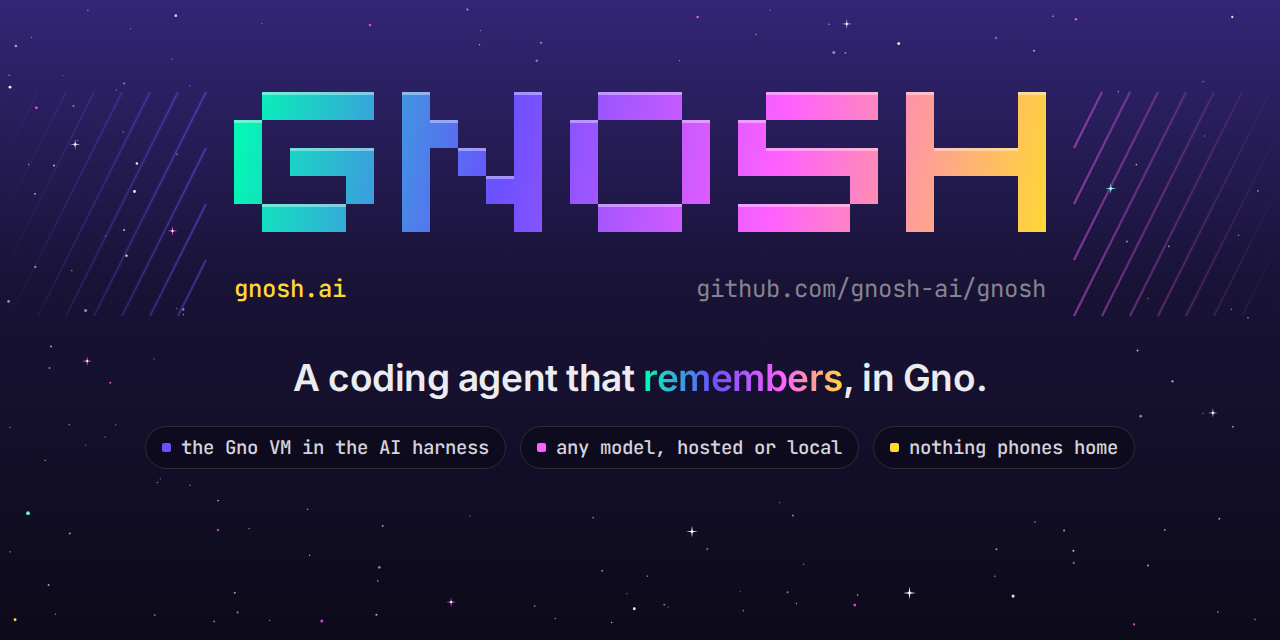
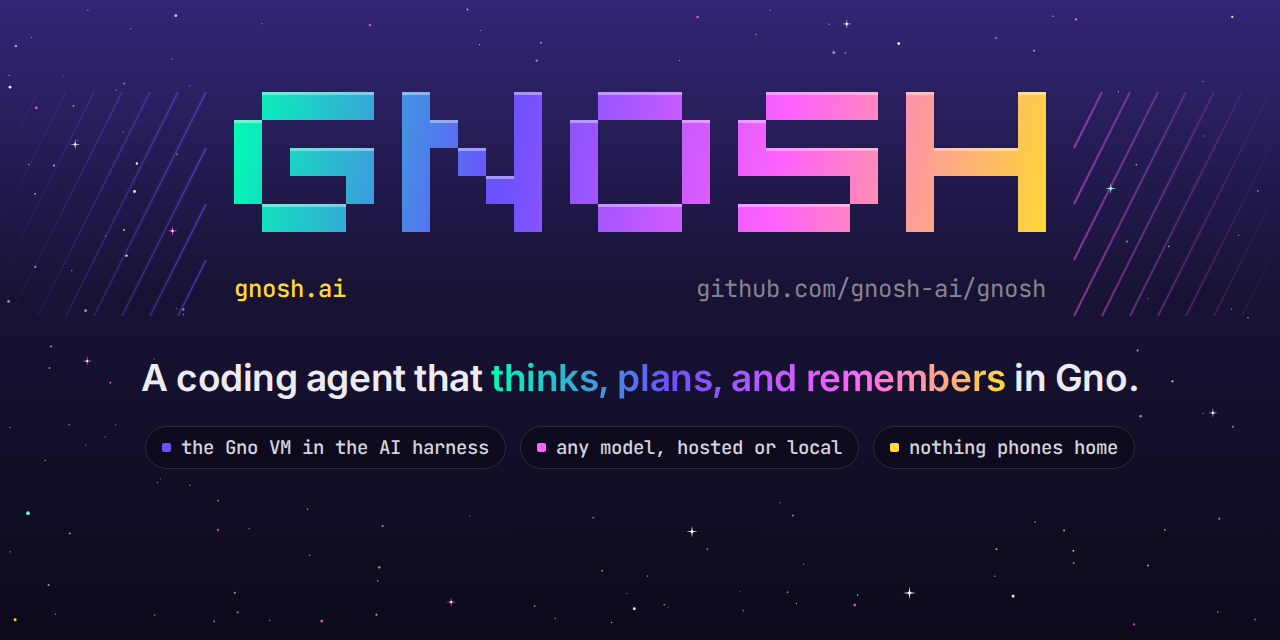
brand: a coding agent that thinks, plans, and remembers in Gno
Jae, 2026-10-30: "a coding agent that remembers, in Gno" ... --> that
thinks, plans, and remembers in Gno. The README's banner and tagline and
the social card say it now. On the banner the longer line has a row of
its own under gnosh.ai, at the same size, so it stays legible where
GitHub shows the banner smaller.

Changed region(s): [[0.0938, 0.5625, 0.9062, 0.625]]

diff --git a/docs/brand/og.html b/docs/brand/og.html
@@ -27,7 +27,7 @@ html,body{width:1280px;height:640px;overflow:hidden;background:#07060D}
 <path d="M262 92h112v28h-112zM402 92h28v28h-28zM514 92h28v28h-28zM598 92h84v28h-84zM766 92h112v28h-112zM906 92h28v28h-28zM1018 92h28v28h-28zM234 120h28v28h-28zM402 120h56v28h-56zM514 120h28v28h-28zM570 120h28v28h-28zM682 120h28v28h-28zM738 120h28v28h-28zM906 120h28v28h-28zM1018 120h28v28h-28zM234 148h28v28h-28zM290 148h84v28h-84zM402 148h28v28h-28zM458 148h28v28h-28zM514 148h28v28h-28zM570 148h28v28h-28zM682 148h28v28h-28zM738 148h140v28h-140zM906 148h140v28h-140zM234 176h28v28h-28zM346 176h28v28h-28zM402 176h28v28h-28zM486 176h56v28h-56zM570 176h28v28h-28zM682 176h28v28h-28zM850 176h28v28h-28zM906 176h28v28h-28zM1018 176h28v28h-28zM262 204h84v28h-84zM402 204h28v28h-28zM514 204h28v28h-28zM598 204h84v28h-84zM738 204h112v28h-112zM906 204h28v28h-28zM1018 204h28v28h-28z" fill="url(#word)"/><path d="M262 92h112v3h-112zM402 92h28v3h-28zM514 92h28v3h-28zM598 92h84v3h-84zM766 92h112v3h-112zM906 92h28v3h-28zM1018 92h28v3h-28zM234 120h28v3h-28zM430 120h28v3h-28zM570 120h28v3h-28zM682 120h28v3h-28zM738 120h28v3h-28zM290 148h84v3h-84zM458 148h28v3h-28zM766 148h112v3h-112zM934 148h84v3h-84zM486 176h28v3h-28zM262 204h84v3h-84zM598 204h84v3h-84zM738 204h112v3h-112z" fill="#fff" opacity=".38"/>
 </svg></div>
 <div class="wrap">
-  <div class="tag">A coding agent that <b>remembers</b>, in Gno.</div>
+  <div class="tag">A coding agent that <b>thinks, plans, and remembers</b> in Gno.</div>
   <div class="pts">
     <span><i style="background:#6B50FF"></i>the Gno VM in the AI harness</span>
     <span><i style="background:#FF60FF"></i>any model, hosted or local</span>

diff --git a/scripts/brand.py b/scripts/brand.py
@@ -274,7 +274,7 @@ def banner(W=1280, H=520, p=24):
     left = diagonals(lx0, x0 - cw, y0, 4, cw, ch)
     right = diagonals(x0 + word_w + cw, W + cw, y0, 4, cw, ch)
 
-    o = [svg_open(W, H, "Gnosh, a coding agent that remembers, in Gno")]
+    o = [svg_open(W, H, "Gnosh, a coding agent that thinks, plans, and remembers in Gno")]
     o.append(anim())
     o.append("<defs>")
     o.append(sky_defs())
@@ -287,7 +287,8 @@ def banner(W=1280, H=520, p=24):
     o.append(f'<path d="{left}{right}" stroke="url(#field)" stroke-width="2" fill="none"/>')
     ty = meta_y + ch * 0.66
     o.append(f'<text x="{x0}" y="{fmt(ty)}" font-family="{MONO}" font-size="21" fill="{GOLD}">gnosh.ai</text>')
-    o.append(f'<text x="{x0 + word_w}" y="{fmt(ty)}" text-anchor="end" font-family="{MONO}" font-size="21" fill="{HAZE}">a coding agent that remembers, in Gno</text>')
+    # The tagline is longer than the room beside gnosh.ai: it gets a row of its own.
+    o.append(f'<text x="{x0 + word_w}" y="{fmt(ty + 34)}" text-anchor="end" font-family="{MONO}" font-size="21" fill="{HAZE}">a coding agent that thinks, plans, and remembers in Gno</text>')
     o.append(layers)
     o.append("</g>")
     o.append(f'<rect x=".5" y=".5" width="{W - 1}" height="{H - 1}" rx="22" fill="none" stroke="{RIM}"/>')
@@ -393,7 +394,7 @@ html,body{width:1280px;height:640px;overflow:hidden;background:$void}
 </style></head><body>
 <div class="bg">$svg</div>
 <div class="wrap">
-  <div class="tag">A coding agent that <b>remembers</b>, in Gno.</div>
+  <div class="tag">A coding agent that <b>thinks, plans, and remembers</b> in Gno.</div>
   <div class="pts">
     <span><i style="background:$purple"></i>the Gno VM in the AI harness</span>
     <span><i style="background:$pink"></i>any model, hosted or local</span>

diff --git a/README.md b/README.md
@@ -1,5 +1,5 @@
 <p align="center">
-  <a href="https://gnosh.ai"><img src="docs/brand/banner.svg" width="100%" alt="Gnosh: a coding agent that remembers, in Gno"></a>
+  <a href="https://gnosh.ai"><img src="docs/brand/banner.svg" width="100%" alt="Gnosh: a coding agent that thinks, plans, and remembers in Gno"></a>
 </p>
 
 <p align="center">
@@ -10,7 +10,7 @@
   <a href="./LICENSE.md"><img alt="License: GNO Network GPL v6" src="https://img.shields.io/badge/license-GNO%20Network%20GPL%20v6-605F6B?style=flat-square&labelColor=201F26"></a>
 </p>
 
-<p align="center"><strong>A coding agent that remembers, in Gno.</strong><br>
+<p align="center"><strong>A coding agent that thinks, plans, and remembers in Gno.</strong><br>
 Gnosh runs the Gno VM in the AI harness. The agent keeps its goals, what it found and the facts you gave it in <code>mem</code>, kept in Gno on your disk, and a new session starts with what is still open and the newest facts, so it picks up where the last one stopped.</p>
 
 <p align="center">Security-first underneath: a fork of Charm's <a href="https://github.com/charmbracelet/crush">Crush</a> that closes the doors a coding agent usually leaves open.</p>
